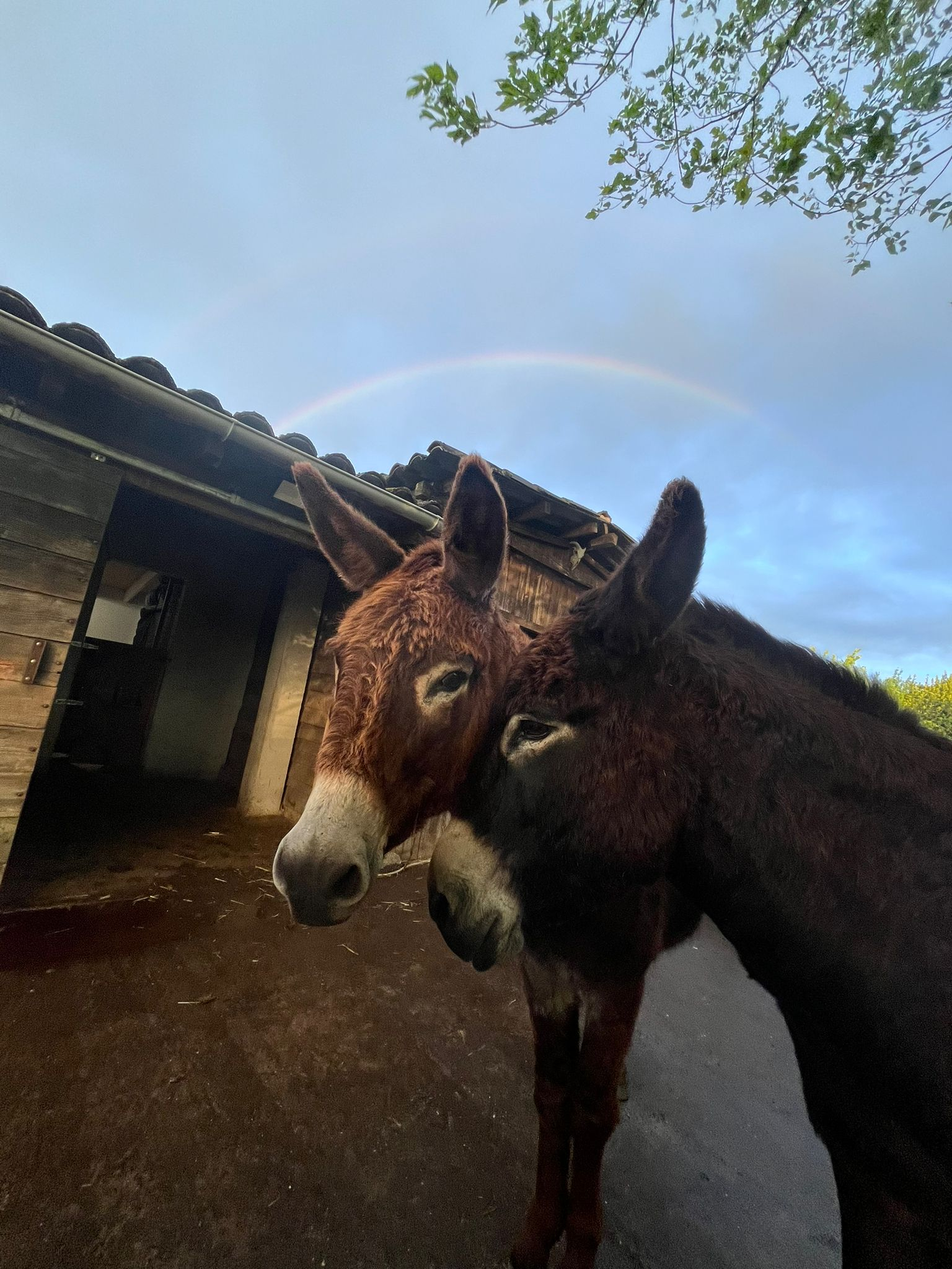
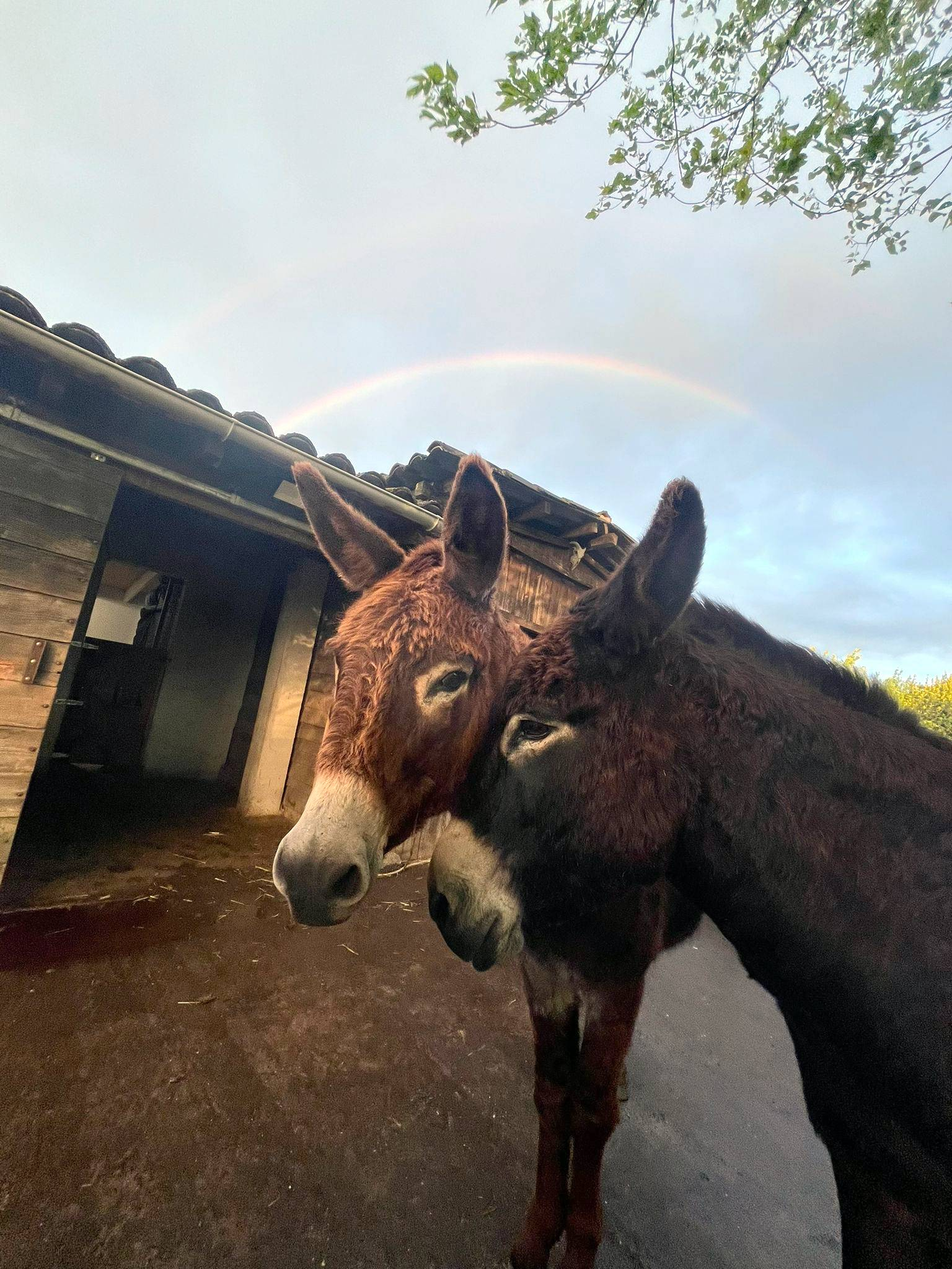
improving title readability and looks

diff --git a/src/app/globals.css b/src/app/globals.css
@@ -1,5 +1,4 @@
-@import url("https://fonts.googleapis.com/css2?family=Caveat&family=Fredericka+the+Great&family=Mooli&display=swap");
-
+@import url("https://fonts.googleapis.com/css2?family=Caveat&family=Fredericka+the+Great&family=Indie+Flower&family=Mooli&family=Nunito&display=swap");
 @keyframes slide-up {
   0% {
     height: 0;
@@ -251,7 +250,7 @@ a {
   width: 100vw;
   height: 100svh;
   object-fit: cover;
-  object-position: center;
+  object-position: 20% 70%;
   position: relative;
   @media screen and (max-width: 1024px) {
     object-fit: cover;
@@ -347,26 +346,27 @@ a {
 }
 
 .standard-section-title {
-  color: rgb(255, 255, 255) !important;
+  color: rgb(0, 29, 12) !important;
   width: 100vw;
-  padding: 4px 15vw;
+  padding: 4px 10vw;
   text-align: center;
-  font-size: 3vw;
-  font-family: caveat;
+  font-size: 2.5vw;
+  font-family: "Indie Flower";
   position: relative;
   position: absolute;
   top: 40%;
   left: -100vw;
   height: 0;
-  animation: reveal 600ms ease-out 1s forwards, hover 30s ease-in-out infinite;
+  animation: reveal 600ms ease-out 1s forwards;
   overflow: hidden;
   height: auto;
-  text-shadow: 2px 2px 2px rgb(25, 25, 25);
-  background: rgba(255, 255, 255, 0.182);
+  font-weight: bold;
+  text-shadow: 1px 1px 1px rgb(255, 255, 255);
+  background: rgba(255, 255, 255, 0.586);
 
   @media screen and (max-width: 1024px) {
-    font-size: 30px;
-    top: 25%;
+    font-size: 3vh;
+    top: 30%;
   }
 }
 
